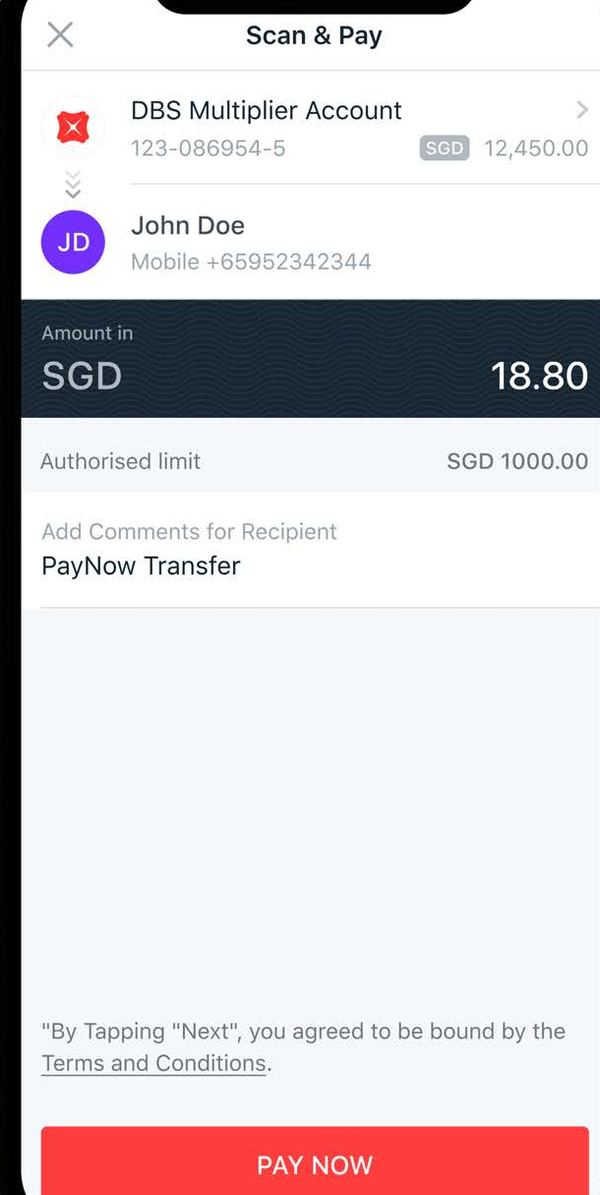
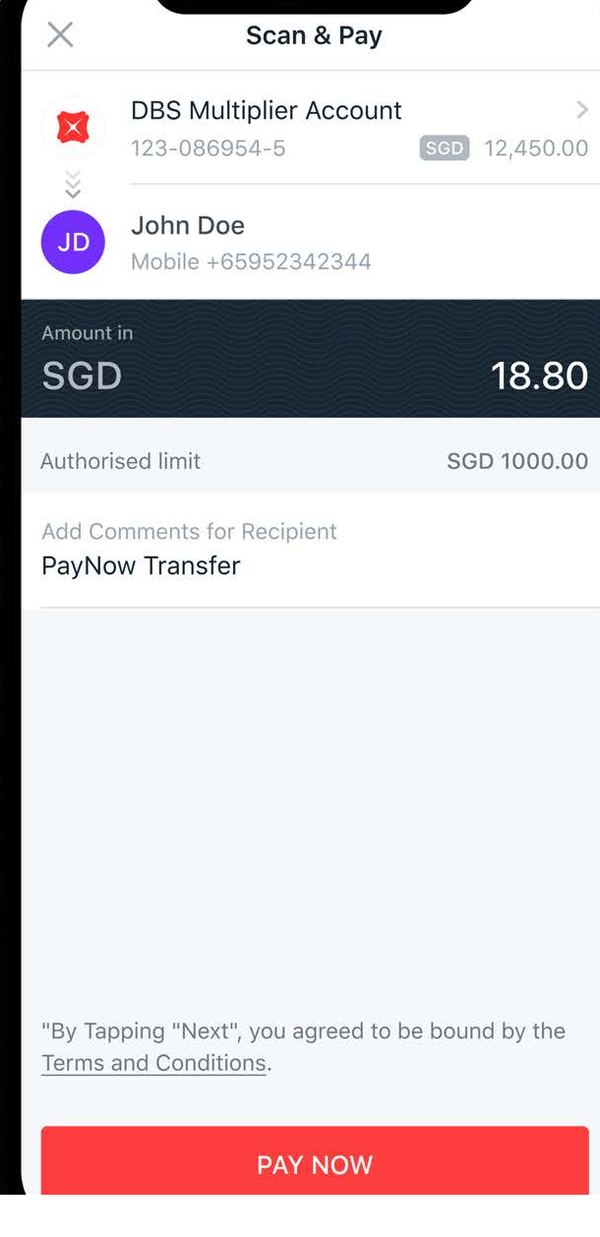
Go Digital: line the DBS glow up with the real buttons
The button areas on the DBS screenshots were estimated by eye and sat
off the buttons. They're now measured from the pictures themselves: DBS's
red buttons and boxes are found by colour, the rest by their outlines.
The ring hugs each button, Scan & Pay's pictures get a little room under
PAY NOW so its glow isn't cut off, and on screenshots the hand points
from below the button (or from above, for buttons at the bottom) so it
no longer covers labels like Log In and PayNow.

Claude-Session: https://claude.ai/code/session_01L4LpkZsQjrDsMXN9iXqY69

diff --git a/src/godigital.js b/src/godigital.js
@@ -257,27 +257,27 @@ const fairprice = {
 // they're the phone's own screens, not the bank's app.
 
 export const SHOTS = {
-  'dbs.start': { h: 1208, spots: { login: [12, 48, 22, 11], paynow: [70, 48, 22, 11], scan: [41, 60, 22, 11] } },
-  'dbs.login': { h: 1188, warn: true, spots: { faceid: [83, 38, 15, 9], loginbtn: [7, 39, 76, 8] } },
-  'dbs.home': { h: 1208, spots: { deposits: [2, 68, 96, 9], 'tab-pay': [33, 89, 22, 9] } },
-  'dbs.balance': { h: 1139, spots: { deposits: [2, 43, 96, 7], account: [2, 56, 96, 12] } },
-  'dbs.paynow': { h: 1256, spots: { mobile: [0, 30, 100, 8] } },
-  'dbs.paynowto': { h: 1255, spots: { find: [3, 90, 94, 7], name: [0, 41, 70, 12] } },
-  'dbs.amount': { h: 1246, spots: { amount: [0, 29, 100, 13] } },
-  'dbs.review': { h: 1249, spots: { send: [2, 89, 96, 7] } },
-  'dbs.sent': { h: 1248, spots: { done: [56, 90, 42, 8] } },
-  'dbs.paytransfer': { h: 1248, spots: { bills: [0, 24, 14, 14], 'tab-pay': [18, 90, 20, 10] } },
-  'dbs.bills': { h: 1251, spots: { add: [1, 21, 98, 9] } },
-  'dbs.addbill': { h: 1248, spots: { biller: [1, 32, 95, 7], ref: [1, 46, 95, 7] } },
-  'dbs.addbillreview': { h: 1249, spots: { addnow: [1, 88, 98, 7] } },
-  'dbs.billsaved': { h: 1237, spots: { bill: [1, 34, 98, 12] } },
-  'dbs.paybill': { h: 1234, spots: { amount: [1, 32, 98, 7] } },
-  'dbs.billreview': { h: 1237, spots: { send: [2, 90, 96, 7] } },
+  'dbs.start': { h: 1208, spots: { login: [14, 49.5, 17, 9], paynow: [73.5, 49.5, 17, 9], scan: [44, 61, 17, 9] } },
+  'dbs.login': { h: 1188, warn: true, spots: { faceid: [84.5, 40.5, 14, 8], loginbtn: [6.7, 41.4, 76.7, 6.4] } },
+  'dbs.home': { h: 1208, spots: { deposits: [2, 72.5, 96, 9], 'tab-pay': [34, 94.5, 20, 5] } },
+  'dbs.balance': { h: 1139, spots: { deposits: [2, 42, 96, 7], account: [2, 57, 96, 11.5] } },
+  'dbs.paynow': { h: 1256, spots: { mobile: [2, 29.5, 96, 7.5] } },
+  'dbs.paynowto': { h: 1255, spots: { find: [4.7, 89.8, 90.7, 6.2], name: [2.5, 36, 50, 16] } },
+  'dbs.amount': { h: 1246, spots: { amount: [2.3, 29.1, 95.7, 10.9] } },
+  'dbs.review': { h: 1249, spots: { send: [4.7, 88.5, 90.7, 6.4] } },
+  'dbs.sent': { h: 1248, spots: { done: [52.3, 91.7, 43, 6.2] } },
+  'dbs.paytransfer': { h: 1248, spots: { bills: [0.7, 24, 23.3, 12.3], 'tab-pay': [19, 89.6, 21.3, 8] } },
+  'dbs.bills': { h: 1251, spots: { add: [2.3, 20.3, 94.7, 8.6] } },
+  'dbs.addbill': { h: 1248, spots: { biller: [4.5, 30.5, 91, 7.2], ref: [3.7, 45.4, 92.3, 5.8] } },
+  'dbs.addbillreview': { h: 1249, spots: { addnow: [4.3, 88.1, 91.7, 5.8] } },
+  'dbs.billsaved': { h: 1237, spots: { bill: [1.3, 33.2, 97.3, 11.5] } },
+  'dbs.paybill': { h: 1234, spots: { amount: [3, 30.5, 94, 7] } },
+  'dbs.billreview': { h: 1237, spots: { send: [4, 92.2, 92, 5.8] } },
   'dbs.billsent': { h: 1239, spots: {} },
-  'dbs.scan': { h: 1110, spots: { qr: [26, 17, 52, 46] } },
-  'dbs.scanpay': { h: 1195, spots: { merchant: [0, 15, 100, 9], amount: [0, 24, 100, 10], pay: [3, 90, 94, 7] } },
-  'dbs.scanreview': { h: 1195, spots: { send: [3, 90, 94, 7] } },
-  'dbs.scansent': { h: 1179, spots: {} },
+  'dbs.scan': { h: 1110, spots: { qr: [22, 19, 56, 44] } },
+  'dbs.scanpay': { h: 1237, spots: { merchant: [1, 16.5, 98, 7.5], amount: [0.5, 24.3, 99, 9.3], pay: [7, 91.3, 91.3, 5.3] } },
+  'dbs.scanreview': { h: 1237, spots: { send: [7, 91.9, 91.3, 4.7] } },
+  'dbs.scansent': { h: 1221, spots: {} },
 };
 
 const dbs = {

diff --git a/shared/styles.css b/shared/styles.css
@@ -1729,7 +1729,8 @@ button.danger { color: var(--bad); }
 .gd-phone.photo .gd-screen { height: auto; }
 .gd-shot { position: relative; width: 100%; overflow: hidden; }
 .gd-shot img { display: block; width: 100%; height: auto; }
-.gd-spot, .gd-spot.gd-glow { position: absolute; border-radius: 10px; }
+/* The ring hugs the real button: drawn just outside it, so it doesn't hide the label. */
+.gd-spot, .gd-spot.gd-glow { position: absolute; border-radius: 8px; outline-width: 2.5px; outline-offset: 1px; }
 .gd-wm { position: absolute; inset: -30%; display: flex; flex-wrap: wrap; align-content: space-around; justify-content: space-around; gap: 2.5em 1.5em; transform: rotate(-30deg); pointer-events: none; }
 .gd-wm span { font-size: 1.05em; font-weight: 800; letter-spacing: .05em; color: rgb(15 118 110 / .22); white-space: nowrap; text-shadow: 0 0 2px rgb(255 255 255 / .5); }
 .gd-wmwarn { position: absolute; left: 6%; right: 6%; bottom: 12%; padding: .6em; border-radius: 10px; background: rgb(15 118 110 / .92); color: #fff; font-weight: 700; text-align: center; line-height: 1.35; pointer-events: none; }
@@ -1737,6 +1738,8 @@ button.danger { color: var(--bad); }
 @keyframes gd-glow { 0%, 100% { box-shadow: 0 0 0 0 rgb(245 158 11 / .7); } 50% { box-shadow: 0 0 0 9px rgb(245 158 11 / 0); } }
 .gd-hand { position: absolute; z-index: 2; font-size: 2.6em; pointer-events: none; transform: translate(-30%, 0); animation: gd-hand 1.2s ease-in-out infinite; filter: drop-shadow(0 2px 3px rgb(0 0 0 / .35)); }
 @keyframes gd-hand { 0%, 100% { translate: 0 0; } 50% { translate: 0 -10px; } }
+.gd-hand.down { animation-name: gd-hand-down; }
+@keyframes gd-hand-down { 0%, 100% { translate: 0 0; } 50% { translate: 0 6px; } }
 @media (prefers-reduced-motion: reduce) { .gd-glow, .gd-hand, .gd-spin { animation: none; } }
 
 .gd-caption { margin-top: .8rem; }

diff --git a/godigital/app.js b/godigital/app.js
@@ -168,10 +168,23 @@ function markTarget(id) {
   const place = () => {
     const a = screen.getBoundingClientRect();
     const b = target.getBoundingClientRect();
-    // Keep the whole hand on the screen, even for buttons at its edge.
     const h = hand.offsetHeight || 40;
-    hand.style.left = `${Math.min(b.left - a.left + Math.min(b.width * 0.6, b.width - 8), a.width - h * 0.75)}px`;
-    hand.style.top = `${Math.min(b.top - a.top + b.height * 0.55, a.height - h) + screen.scrollTop}px`;
+    let left = b.left - a.left + Math.min(b.width * 0.6, b.width - 8);
+    let top = b.top - a.top + b.height * 0.55;
+    if (screen.querySelector('.gd-shot')) {
+      // On a real screenshot, point from just below the button so its label stays readable,
+      // or from above, pointing down, when it's at the bottom of the screen.
+      left = b.left - a.left + (b.width > a.width / 2 ? b.width * 0.7 : b.width / 2);
+      top = b.bottom - a.top - h * 0.2;
+      if (top + h > a.height) {
+        hand.textContent = '👇';
+        hand.classList.add('down');
+        top = b.top - a.top - h * 0.8;
+      }
+    }
+    // Keep the whole hand on the screen, even for buttons at its edge.
+    hand.style.left = `${Math.min(left, a.width - h * 0.75)}px`;
+    hand.style.top = `${Math.min(top, a.height - h) + screen.scrollTop}px`;
   };
   screen.append(hand);
   place();

diff --git a/sw.js b/sw.js
@@ -3,7 +3,7 @@
 // The file list and VERSION are written by tools/build-sw.js (`npm run sw`); don't edit them by hand.
 
 // <files>
-const VERSION = "34208ff9ae59";
+const VERSION = "af949f4b391c";
 const FILES = [
   "./",
   "petty-cash/",
